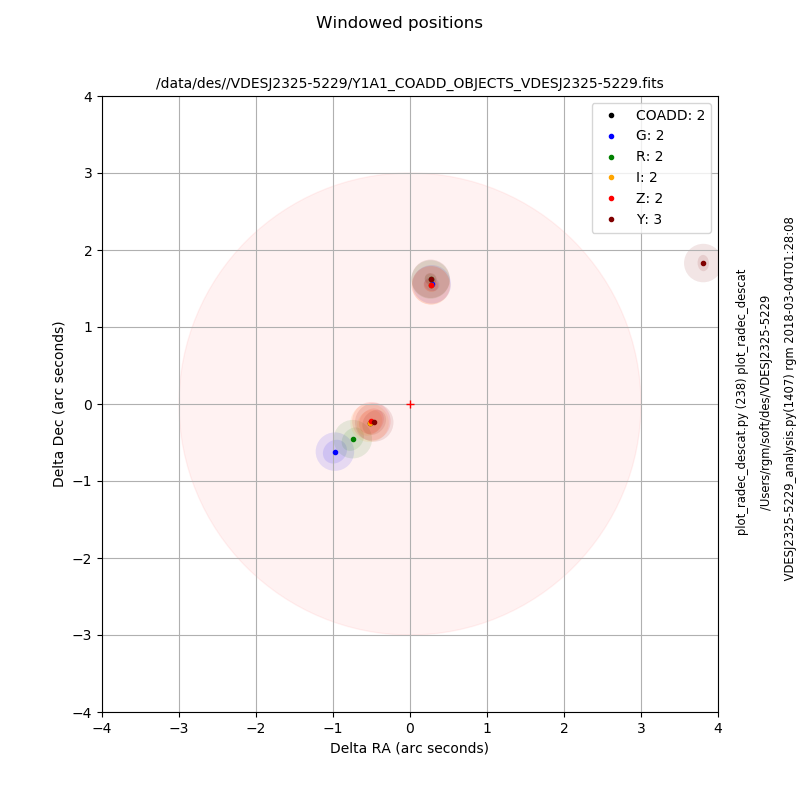
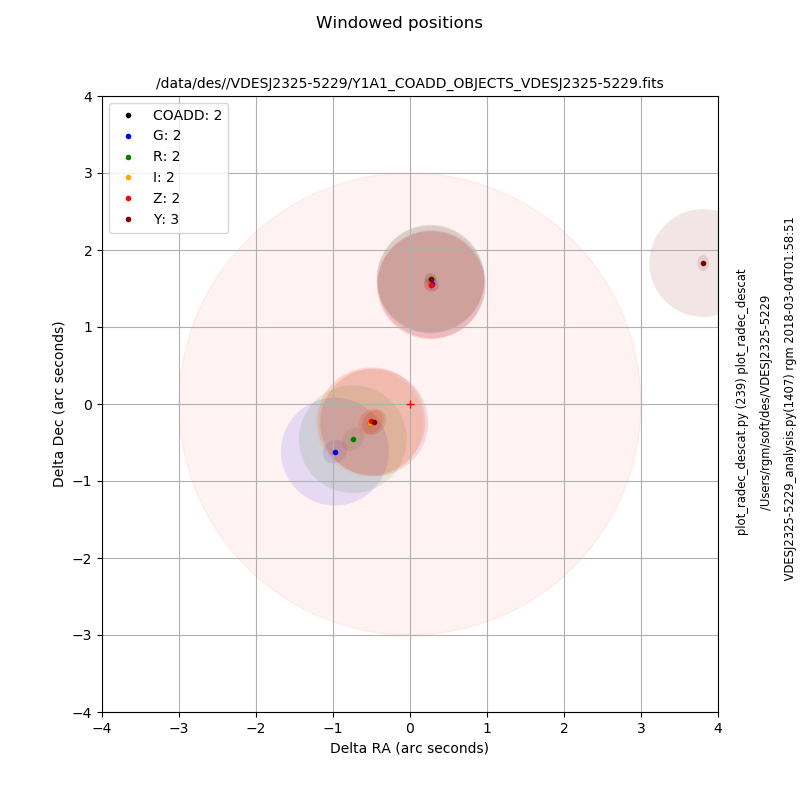
changed circle radius for plot_radec_descat from 0.25" to 0.7" 	modified:   DESJ0408-5354_COADD_radec.png 	modified:   VDESJ2325-5229_COADD_radec.png 	modified:   plot_radec_descat.py

diff --git a/VDESJ2325-5229/plot_radec_descat.py b/VDESJ2325-5229/plot_radec_descat.py
@@ -173,10 +173,11 @@ def plot_radec_descat(data=None,
         alpha=0.1
         i =-1
 
+        radius = 0.7
         for id in xdata:
             i = i + 1
 
-            circle = Circle([delta_ra[i], delta_dec[i]], 0.25,
+            circle = Circle([delta_ra[i], delta_dec[i]], radius,
                 edgecolor='none', facecolor=colors[iband], alpha=alpha)
             plt.gca().add_patch(circle)
 
